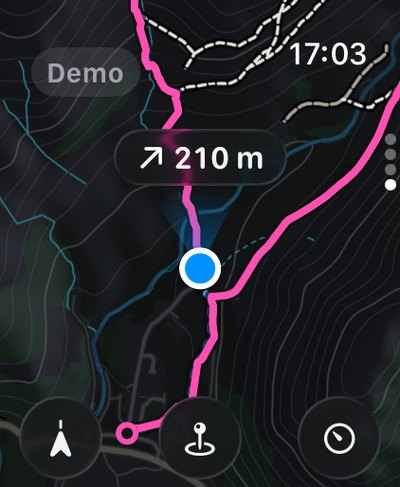
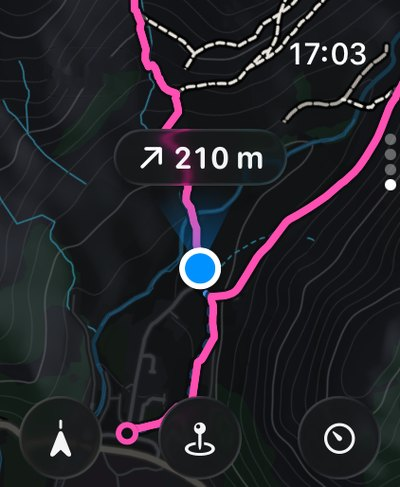
Review round 2: wrapping privacy link, watches over whole cells, matching watch captures
- The privacy section's "Every request it makes" link wraps at 360 and 375 px, with the chevron
  kept on the last word (all .more links), instead of being clipped at the screen edge.
- Trail Run: the watch covers the dashboard's third metric column below its first row and the end
  of Pause, so no half-hidden numbers. Race Day: the watch sits on the right, under the list of
  stops, over the Position card, so no stop name or grid reference is cut.
- New Run and Next Aid watch captures from the Screen Gallery with the values of the iPhone
  captures beside them (10:59, 1.29 km, 8:56 /km, 138 bpm; Hole-in-the-Wall 1/3, ETA 10:17,
  +8 min, cutoff 10:25), clock at 09:41 like the iPhone. README says how.
- tools/shots.py takes the demo mode's "Demo" tag off the Trail Run dashboard and the watch map,
  and writes every watch capture as JPEG (the four PNGs are gone).
- Map attribution under the Ridgeway Plus cards (the Hiking Pro card shows map imagery).
- The pre-launch line is Ridgeway's own: a dashed planned leg ending at a waypoint ring, no capsule.

Changed region(s): [[0.06, 0.0924, 0.36, 0.1848]]

diff --git a/index.html b/index.html
@@ -227,17 +227,20 @@ a:hover { text-decoration: underline; text-underline-offset: .2em; text-decorati
 .hero__lede { margin-top: 26px; max-width: 31em; font-size: clamp(17px, 1.4vw, 20px); line-height: 1.55; color: var(--ink-2); }
 .hero__actions { margin-top: 36px; display: flex; flex-wrap: wrap; align-items: center; gap: 18px 28px; }
 .more { font-weight: 500; font-size: 17px; white-space: nowrap; }
-.more::after { content: " \203A"; }
+.more::after { content: "\00A0\203A"; } /* the chevron stays with the last word */
 
 /* Before launch: a quiet status pill, not a link. At launch: .get, a plain text button (never a
    copy of Apple's badge; the official badge, if wanted, comes from Apple's marketing resources). */
+/* The pre-launch line is a planned leg on the map: a dashed route hairline that ends at a waypoint
+   ring, not yet walked. */
 .soon {
-  display: inline-flex; align-items: center; gap: 11px; height: 48px; padding: 0 20px 0 17px; border-radius: 999px;
-  border: 1px solid rgba(255, 255, 255, .16); background: rgba(255, 255, 255, .035);
+  display: inline-flex; align-items: center; gap: 13px; min-height: 48px;
   color: var(--ink); font-size: 15.5px; font-weight: 600; letter-spacing: -.005em; white-space: nowrap;
 }
-.soon__dot { width: 8px; height: 8px; border-radius: 50%; background: var(--blue);
-             box-shadow: 0 0 0 4px rgba(64, 156, 255, .16), 0 0 14px rgba(64, 156, 255, .7); }
+.soon__dot { position: relative; flex: none; width: 38px; height: 12px;
+             background: repeating-linear-gradient(90deg, var(--blue) 0 6px, transparent 6px 10px) left center / 26px 2px no-repeat; }
+.soon__dot::after { content: ""; position: absolute; right: 0; top: 0; width: 12px; height: 12px; box-sizing: border-box;
+                    border-radius: 50%; border: 2px solid var(--blue); box-shadow: 0 0 10px rgba(64, 156, 255, .55); }
 .get {
   display: inline-flex; align-items: center; height: 50px; padding: 0 24px; border-radius: 999px;
   background: var(--blue-fill); color: #fff; font-size: 16px; font-weight: 600; letter-spacing: -.005em;
@@ -323,11 +326,17 @@ a:hover { text-decoration: underline; text-underline-offset: .2em; text-decorati
 .duo { --pw: clamp(232px, 23vw, 304px); --ww: calc(var(--pw) * .6); padding-bottom: 8px; }
 .duo .phone { --w: var(--pw); }
 .duo .watch { --w: var(--ww); position: absolute; bottom: 4%; left: calc(50% + var(--pw) * .5 - var(--ww) * .55); }
-.duo--left .watch { left: calc(50% - var(--pw) * .5 - var(--ww) * .45); }
+/* Each watch sits over whole parts of the screen behind it, never across a line of text.
+   Trail Run: over the dashboard's third column of metrics below its first row, and the end of Pause. */
+.duo--run .watch { bottom: calc(4% + var(--pw) * .094); left: calc(50% + var(--pw) * .5 - var(--ww) * .68); }
+/* Race Day: under the list of stops, over the Position card that scrolls under the Pause bar. */
+.duo--aid { padding-bottom: calc(var(--pw) * .3); }
+.duo--aid .watch { top: calc(var(--pw) * 1.68); bottom: auto; left: calc(50% + var(--pw) * .5 - var(--ww) * .66); }
 @media (max-width: 900px) {
   .duo { --pw: min(60vw, 280px); }
   .duo .watch { left: calc(50% + var(--pw) * .5 - var(--ww) * .72); }
-  .duo--left .watch { left: calc(50% - var(--pw) * .5 - var(--ww) * .28); }
+  .duo--run .watch { left: calc(50% + var(--pw) * .5 - var(--ww) * .66); }
+  .duo--aid .watch { left: calc(50% + var(--pw) * .5 - var(--ww) * .64); }
 }
 
 /* two phones side by side, the second a step lower */
@@ -459,7 +468,7 @@ a:hover { text-decoration: underline; text-underline-offset: .2em; text-decorati
 .privacy h2 span:nth-child(2) { color: #D3D6DC; }
 .privacy h2 span:nth-child(3) { color: var(--ink-2); }
 .privacy .lede { max-width: 36em; }
-.privacy .more { display: inline-block; margin-top: 28px; }
+.privacy .more { display: inline-block; margin-top: 28px; white-space: normal; text-wrap: balance; }
 
 /* ---- Ridgeway Plus ------------------------------------------------------------------------ */
 .plus-cards { list-style: none; margin: clamp(48px, 6vw, 72px) 0 0; padding: 0;
@@ -470,6 +479,7 @@ a:hover { text-decoration: underline; text-underline-offset: .2em; text-decorati
 .plus-cards .peek img { width: 100%; height: auto; }
 .plus-cards .peek::after { content: ""; position: absolute; inset: 0;
                            background: linear-gradient(180deg, rgba(16, 20, 27, .9), transparent 18px, transparent 35%, #10141B 100%); }
+.plus-cards + .attrib { margin-top: 16px; text-align: center; }
 .plus-cards h3 { font-size: 20px; letter-spacing: -.015em; }
 .plus-cards p { margin-top: 8px; font-size: 15.5px; color: var(--ink-2); }
 .free { margin-top: clamp(40px, 5vw, 56px); display: grid; grid-template-columns: minmax(0, 1fr) minmax(0, 2fr); gap: 16px 40px;
@@ -629,7 +639,7 @@ a:hover { text-decoration: underline; text-underline-offset: .2em; text-decorati
         <li><h3>Pace and GAP</h3><p>Pace and grade-adjusted pace, automatic kilometre or mile splits, and manual laps kept separately.</p></li>
         <li><h3>Fuel timers</h3><p>Up to three reminders, by time or distance, each with its own pattern of taps on your wrist.</p></li>
       </ul>
-      <div class="stage duo">
+      <div class="stage duo duo--run">
         <figure class="phone">
           <div class="phone__body"><div class="phone__glass"><div class="phone__screen">
             <img src="assets/shots/trail-run.jpg" width="720" height="1564" loading="lazy" decoding="async"
@@ -638,8 +648,8 @@ a:hover { text-decoration: underline; text-underline-offset: .2em; text-decorati
         </figure>
         <figure class="watch">
           <div class="watch__case"><div class="watch__glass"><div class="watch__screen">
-            <img src="assets/watch/run.png" width="400" height="487" loading="lazy" decoding="async"
-                 alt="The run page on Apple Watch: 1:23:45, 12.48 km, 5:42 per km, 152 bpm in zone 4, a Lap button, and Finish at 34% battery.">
+            <img src="assets/watch/run.jpg" width="400" height="487" loading="lazy" decoding="async"
+                 alt="The run page on Apple Watch at the same moment: 10:59, 1.29 km, 8:56 per km, 138 bpm in zone 3, a Lap button, and Finish at 34% battery.">
           </div></div></div>
         </figure>
       </div>
@@ -658,7 +668,7 @@ a:hover { text-decoration: underline; text-underline-offset: .2em; text-decorati
       <h2 id="race-day-title">Every aid station. Every cutoff.</h2>
       <p class="lede">Mark the aid stations and cutoffs on your route, or paste them in from the race notes. On the day, Ridgeway shows the distance, climb and arrival time to the next one, and how much time you have in hand.</p>
     </div>
-    <div class="split__stage stage duo duo--left reveal d1">
+    <div class="split__stage stage duo duo--aid reveal d1">
       <figure class="phone">
         <div class="phone__body"><div class="phone__glass"><div class="phone__screen">
           <img src="assets/shots/race-day.jpg" width="720" height="1564" loading="lazy" decoding="async"
@@ -667,8 +677,8 @@ a:hover { text-decoration: underline; text-underline-offset: .2em; text-decorati
       </figure>
       <figure class="watch">
         <div class="watch__case"><div class="watch__glass"><div class="watch__screen">
-          <img src="assets/watch/next-aid.png" width="400" height="487" loading="lazy" decoding="async"
-               alt="The Next Aid page on Apple Watch: Aid 2 of 4, 4.2 km and ↑ 310 m away, 38 minutes ahead of its cutoff.">
+          <img src="assets/watch/next-aid.jpg" width="400" height="487" loading="lazy" decoding="async"
+               alt="The Next Aid page on Apple Watch at the same moment: Hole-in-the-Wall, stop 1 of 3, 2.9 km and ↑ 520 m away, arriving at 10:17 with 8 minutes in hand before its 10:25 cutoff.">
         </div></div></div>
       </figure>
     </div>
@@ -707,7 +717,7 @@ a:hover { text-decoration: underline; text-underline-offset: .2em; text-decorati
         <figure class="tile__fig">
           <div class="watch">
             <div class="watch__case"><div class="watch__glass"><div class="watch__screen">
-              <img src="assets/watch/off-route.png" width="400" height="487" loading="lazy" decoding="async"
+              <img src="assets/watch/off-route.jpg" width="400" height="487" loading="lazy" decoding="async"
                    alt="Off Route on Apple Watch: an arrow pointing back to the route, 50 m, Proceed to Route.">
             </div></div></div>
           </div>
@@ -719,7 +729,7 @@ a:hover { text-decoration: underline; text-underline-offset: .2em; text-decorati
         <figure class="tile__fig">
           <div class="watch">
             <div class="watch__case"><div class="watch__glass"><div class="watch__screen">
-              <img src="assets/watch/route-compass.png" width="400" height="487" loading="lazy" decoding="async"
+              <img src="assets/watch/route-compass.jpg" width="400" height="487" loading="lazy" decoding="async"
                    alt="The route compass on Apple Watch: 18 m right of route, turn left in 120 m towards Red Tarn, 6.2 km and ↑ 480 m left.">
             </div></div></div>
           </div>
@@ -860,28 +870,28 @@ a:hover { text-decoration: underline; text-underline-offset: .2em; text-decorati
       </li>
       <li class="reveal d1">
         <div class="watch"><div class="watch__case"><div class="watch__glass"><div class="watch__screen">
-          <img src="assets/watch/run.png" width="400" height="487" decoding="async"
+          <img src="assets/watch/run.jpg" width="400" height="487" decoding="async"
                alt="The run page: time, distance, pace, heart rate, a Lap button and the battery forecast.">
         </div></div></div></div>
         <h3>Run</h3><p>Time, pace and heart rate, and the battery you’ll finish with.</p>
       </li>
       <li class="reveal d2">
         <div class="watch"><div class="watch__case"><div class="watch__glass"><div class="watch__screen">
-          <img src="assets/watch/next-aid.png" width="400" height="487" decoding="async"
+          <img src="assets/watch/next-aid.jpg" width="400" height="487" decoding="async"
                alt="The Next Aid page: distance, climb, arrival time and the margin before the cutoff.">
         </div></div></div></div>
         <h3>Next Aid <span class="plus"><span class="vh">Part of Ridgeway </span>Plus</span></h3><p>The next aid station, and your time in hand.</p>
       </li>
       <li class="reveal d3">
         <div class="watch"><div class="watch__case"><div class="watch__glass"><div class="watch__screen">
-          <img src="assets/watch/route-compass.png" width="400" height="487" decoding="async"
+          <img src="assets/watch/route-compass.jpg" width="400" height="487" decoding="async"
                alt="The route compass: distance from the route and the next turn.">
         </div></div></div></div>
         <h3>Route Compass</h3><p>Where the line is, and where it goes next.</p>
       </li>
       <li class="reveal d3">
         <div class="watch"><div class="watch__case"><div class="watch__glass"><div class="watch__screen">
-          <img src="assets/watch/off-route.png" width="400" height="487" decoding="async"
+          <img src="assets/watch/off-route.jpg" width="400" height="487" decoding="async"
                alt="Off Route: the distance and direction back to the route.">
         </div></div></div></div>
         <h3>Off Route</h3><p>The distance and the direction back, in one glance.</p>
@@ -1004,6 +1014,7 @@ a:hover { text-decoration: underline; text-underline-offset: .2em; text-decorati
         <p>Aid stations and cutoffs, arrival times and margins, and the Next Aid page on your wrist.</p>
       </li>
     </ul>
+    <p class="attrib">Map data © OpenStreetMap contributors · © OpenMapTiles · OpenFreeMap</p>
     <div class="free reveal">
       <h3>Always free</h3>
       <ul>

diff --git a/tools/shots.py b/tools/shots.py
@@ -4,13 +4,18 @@
     python3 tools/shots.py [RAW]        RAW defaults to ~/Dev/ridgeway-site-assets-raw
 
 Reads the full-size iPhone captures (1320 x 2868 PNG, `RAW/all-phone/`) and the Apple Watch
-captures (400 x 487 PNG, `RAW/site/watch-*.png`), and writes `assets/shots/` and `assets/watch/`.
+captures (`RAW/site/watch-*.png`, 400 x 487 or 422 x 514), and writes `assets/shots/` and `assets/watch/`.
 
 iPhone captures are cropped (where a tile shows only part of the screen), scaled to 720 px wide,
 or 480 px for the small map-style thumbnails, and saved as progressive JPEG with optimised
 Huffman tables. That is about 40% smaller than `sips` at the same quality setting, with no
 visible difference on the map text (checked at 2x on the hero capture). JPEG, not AVIF: see
-the README. Watch captures stay PNG (white text on black), except the map page, which is JPEG.
+the README. Watch captures are JPEG too.
+
+Two captures come from the app's demo mode and carry its "Demo" tag, which says nothing about the
+feature shown and reads as a mock-up at the top of a device: the Trail Run dashboard's "Demo"
+subtitle and the watch map page's "Demo" capsule. `unmark_dashboard` and `unmark_watch_map` take
+the tag out and change nothing else (see the README).
 
 Needs Pillow (`pip3 install pillow`). Run it from anywhere; paths are relative to this file.
 """
@@ -44,14 +49,81 @@ PHONE = [
     ("map-tactical", "style-tactical", 480, 80, None),
 ]
 
-# (capture in RAW/site, file in assets/watch)
+# (capture in RAW/site, file in assets/watch, JPEG quality)
 WATCH = [
-    ("watch-session-map.png", "map.jpg"),
-    ("watch-run-stats.png", "run.png"),
-    ("watch-next-aid.png", "next-aid.png"),
-    ("watch-route-compass.png", "route-compass.png"),
-    ("watch-off-route.png", "off-route.png"),
+    ("watch-session-map.png", "map.jpg", 86),
+    ("watch-run-stats.png", "run.jpg", 82),
+    ("watch-next-aid.png", "next-aid.jpg", 82),
+    ("watch-route-compass.png", "route-compass.jpg", 82),
+    ("watch-off-route.png", "off-route.jpg", 82),
 ]
+
+
+def unmark_dashboard(im):
+    """The Trail Run dashboard (1320 x 2868): drop the "Demo" subtitle under "Recording" and set the title
+    on the toolbar buttons' centre line, where iOS puts an inline title that has no subtitle. The
+    background there is pure black."""
+    title = im.crop((520, 205, 800, 262))          # "Recording", with its antialiasing
+    im.paste((0, 0, 0), (420, 200, 900, 305))      # title and "Demo" subtitle
+    im.paste(title, (520, 205 + 19))               # centre 233 -> 252, the buttons' centre
+    return im
+
+
+def unmark_watch_map(im):
+    """The watch map page (400 x 487): take out the "Demo" capsule at the top left.
+
+    The capsule is the system tertiary fill, rgb(118, 118, 128) at 24%, over the map, so outside the
+    letters the map is recovered exactly by un-blending it. Its soft shadow darkens a pixel or two
+    round the edge by about 7%. Under the letters (secondary label grey, opaque) the map is filled
+    in from the recovered pixels around them. Only faint contour lines sit behind the word."""
+    x0, y0, x1, y1 = 31.3, 47.4, 140.0, 96.5        # the capsule, in pixels (measured on its edges)
+    r = (y1 - y0) / 2
+    fill, alpha = (118, 118, 128), 0.24
+
+    def dist(x, y):                                 # signed distance to the capsule's edge
+        cx = min(max(x, x0 + r), x1 - r)
+        return ((x - cx) ** 2 + (y - (y0 + r)) ** 2) ** .5 - r
+
+    def inside(x, y):
+        return dist(x, y) <= 0
+
+    px = im.load()
+    box = (int(x0) - 3, int(y0) - 3, int(x1) + 4, int(y1) + 4)
+    text = (45, 58, 125, 87)                        # the word's box
+    unknown = set()
+    for y in range(box[1], box[3]):
+        for x in range(box[0], box[2]):
+            cover = sum(inside(x + (i + .5) / 4, y + (j + .5) / 4) for i in range(4) for j in range(4)) / 16
+            if not cover:
+                d = dist(x + .5, y + .5)
+                if d < 2:                           # the shadow just outside
+                    px[x, y] = tuple(min(255, round(c / (1 - .07 * (2 - d) / 2))) for c in px[x, y])
+                continue
+            a = alpha * cover
+            p = px[x, y]
+            m = tuple(max(0, min(255, round((p[k] - fill[k] * a) / (1 - a)))) for k in range(3))
+            px[x, y] = m
+            if text[0] <= x < text[2] and text[1] <= y < text[3] and sum(m) / 3 > 52:
+                unknown.add((x, y))
+    # two pixels round each letter, for its antialiased edge and shadow
+    for _ in range(2):
+        unknown |= {(x + dx, y + dy) for x, y in unknown for dx in (-1, 0, 1) for dy in (-1, 0, 1)}
+    while unknown:                                  # fill from the outside in
+        done = {}
+        for x, y in unknown:
+            near = [px[x + dx, y + dy] for dx in (-1, 0, 1) for dy in (-1, 0, 1)
+                    if (dx or dy) and (x + dx, y + dy) not in unknown]
+            if len(near) >= 3:
+                done[(x, y)] = tuple(round(sum(c[k] for c in near) / len(near)) for k in range(3))
+        if not done:
+            break
+        for xy, c in done.items():
+            px[xy] = c
+        unknown -= done.keys()
+    return im
+
+
+UNMARK = {"trail-run-dashboard": unmark_dashboard, "watch-session-map.png": unmark_watch_map}
 
 
 def save_jpeg(im, path, quality):
@@ -66,7 +138,9 @@ def main():
     os.makedirs(watch, exist_ok=True)
     total = 0
     for src, name, width, quality, crop in PHONE:
-        im = Image.open(os.path.join(RAW, "all-phone", src + ".png"))
+        im = Image.open(os.path.join(RAW, "all-phone", src + ".png")).convert("RGB")
+        if src in UNMARK:
+            im = UNMARK[src](im)
         if crop:
             im = im.crop(crop)
         height = round(im.height * width / im.width)
@@ -76,13 +150,14 @@ def main():
         size = os.path.getsize(out)
         total += size
         print("%-34s %4d x %-4d %4d KB" % ("shots/" + name + ".jpg", width, height, size // 1024))
-    for src, name in WATCH:
+    for src, name, quality in WATCH:
         im = Image.open(os.path.join(RAW, "site", src)).convert("RGB")
+        if src in UNMARK:
+            im = UNMARK[src](im)
+        if im.size != (400, 487):                   # Ultra 3 (49 mm) is 422 x 514; same shape
+            im = im.resize((400, 487), Image.LANCZOS)
         out = os.path.join(watch, name)
-        if name.endswith(".jpg"):
-            save_jpeg(im, out, 86)
-        else:
-            im.save(out, "PNG", optimize=True)
+        save_jpeg(im, out, quality)
         size = os.path.getsize(out)
         total += size
         print("%-34s %4d x %-4d %4d KB" % ("watch/" + name, im.width, im.height, size // 1024))

diff --git a/README.md b/README.md
@@ -26,10 +26,11 @@ Store Connect, and the contact in the map-tile User-Agent), so those two address
 
 **The App Store link.** The site goes live before the listing exists (App Store Connect needs the
 privacy and support addresses), so nothing on it pretends to download. The hero and the closing
-section show a plain "Coming to the App Store" pill that is not a link, and the bar has no download
+section show a plain "Coming to the App Store" line, drawn as a planned leg of a route (a dashed
+hairline ending at a waypoint ring), that is not a link, and the bar has no download
 button. The live markup is already in `index.html`, in three comments marked `STAGED`: the bar's
 Download, and a "Download on the App Store" text button in the hero and in the closing section. At
-launch, delete the two pills, remove those comments' markers, replace `APPLE_ID` with the numeric
+launch, delete the two "Coming to the App Store" lines, remove those comments' markers, replace `APPLE_ID` with the numeric
 Apple ID from App Store Connect, and add `downloadUrl` to the JSON-LD in the head (marked the same
 way). The button is plain text; never a home-made copy of Apple's badge. If the official badge is
 wanted, it comes from Apple's marketing resources, with their rules (BRAND §3.4).
@@ -77,17 +78,26 @@ Light was added later from the same build and simulator, the same way).
 
 Things that are true of them, so nobody is surprised:
 
-- The Trail Run dashboard and the watch screens say "Demo": they come from the app's demo mode
-  and its screen gallery, which show the real session pages with sample data.
-- The watch clock reads 16:20–17:03. watchOS simulators cannot set the status bar, so the
-  Next Aid page's ETA 9:43 and cutoff 10:21 sit under a 17:03 clock.
+- The Trail Run dashboard and the watch map page come from the app's demo mode, which tags them
+  "Demo". `tools/shots.py` takes the tag out (`unmark_dashboard`, `unmark_watch_map`) and nothing
+  else: on the dashboard it is the title's subtitle on black, and on the watch it is a translucent
+  capsule, un-blended from the map, with the map under the letters filled in from around them.
+- The watch's Run and Next Aid pages are the Screen Gallery's pages (`watch.session.run.page`,
+  `watch.session.run.aid.warning`) with their sample values set to the moment of the iPhone
+  captures beside them, so the two devices agree: 10:59, 1.29 km, 8:56 /km and 138 bpm on the
+  run; Hole-in-the-Wall, stop 1 of 3, 2.9 km and ↑ 520 m away, ETA 10:17, cutoff 10:25, +8 min
+  on Race Day. They were taken in November 2026 from a scratch copy of `5661f21` with only those
+  values changed (`Packages/TrailUI/Sources/WatchSession/WatchRunGallery.swift`, `RunSamples`),
+  on "Site Apple Watch Ultra 3 (49mm)" booted with `SIMCTL_CHILD_TZ=Pacific/Honolulu` and shot at
+  09:41 there, so the clock matches the iPhone's 9:41.
+- The other watch pages read 16:20–17:03: watchOS simulators cannot set the status bar.
 - The You tab's numbers are sample Health history (the page says so), and its full-screen world
   map is Apple Maps, with Apple's credit in the capture.
 - There is no Lock Screen capture: the simulator would not lock, and a faked notification would
   not be the app's alert. It needs a real device.
 
 The raw files live outside this repository, in `~/Dev/ridgeway-site-assets-raw/` (`all-phone/` at
-1320 × 2868, `site/` for the watch at 400 × 487). To make the site's copies:
+1320 × 2868, `site/` for the watch at 400 × 487, or 422 × 514 for the Run and Next Aid pages). To make the site's copies:
 
 ```bash
 pip3 install pillow           # once
@@ -99,7 +109,7 @@ climbs, the download card, and the Hiking Pro detail around Helvellyn that sits 
 its thumbnail, so the style's 10 m contours and crags show at full size), scales iPhone captures to 720 px wide (480 for the map-style thumbnails) and writes
 progressive JPEG with optimised tables, quality 84. That is about 40% smaller than the
 `sips -s format jpeg` route the other sites use, with no difference visible on the map text at
-2x. Watch captures stay PNG, apart from the map page.
+2x. Watch captures are JPEG too (quality 82, 86 for the map page), scaled to 400 × 487.
 
 JPEG, not AVIF, for the reason in `trackload-site`: `sips` writes a tiled AVIF with an HDR
 property that Firefox's parser rejects, and because Firefox does support AVIF a `<picture>` never
